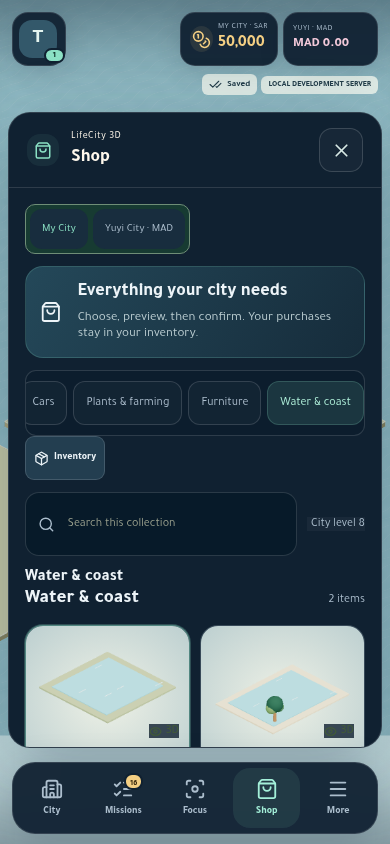
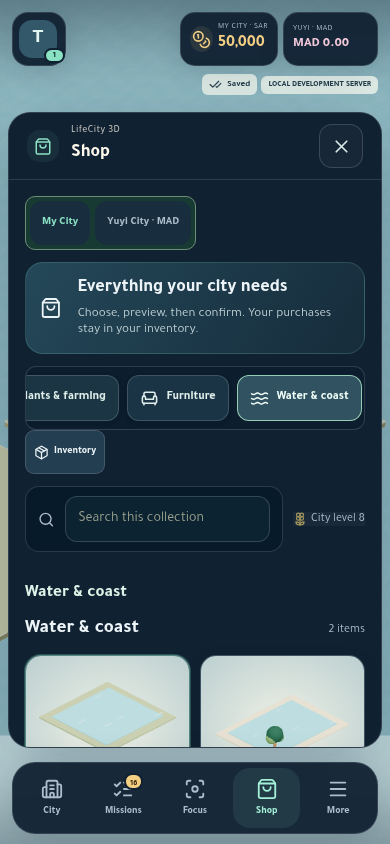
Complete stage 2: shared panel controls and responsive RTL menus

diff --git a/src/components/game-controls.css b/src/components/game-controls.css
@@ -1,0 +1,28 @@
+/* Shared controls for every game panel, drawer, catalog and journal. */
+.modern-game{--control-height:46px;--control-radius:12px;--control-fill:#1b3445;--control-edge:#ffffff29;--control-text:#dfeeea;--control-selected:#8be1c4;--control-ink:#102d32}
+.modern-game .game-panel :is(button,.button,.social-button){min-height:44px;font-family:inherit;font-weight:700;line-height:1.45;touch-action:manipulation;transition:background-color .16s,border-color .16s,box-shadow .16s}
+.modern-game :is(button,a,input,select,textarea):focus-visible{outline:3px solid #e5c77d;outline-offset:3px}
+.modern-game .game-panel :is(.game-tabs,.studio-tabs,.shop-subsections,.finish-surfaces,.timer-targets,.shop-floor-presets,.social-settings-nav){display:flex;align-items:center;gap:8px;overflow-x:auto;flex-wrap:nowrap;scrollbar-width:thin;overscroll-behavior-inline:contain;scroll-padding-inline:8px;scroll-behavior:smooth;padding:8px 2px;max-width:100%;min-width:0}
+.modern-game .game-panel :is(.game-tabs,.studio-tabs,.shop-subsections,.finish-surfaces,.timer-targets,.shop-floor-presets,.social-settings-nav)>:is(button,a){display:inline-flex;align-items:center;justify-content:center;gap:8px;flex-shrink:0;min-height:var(--control-height);padding:10px 15px;border:1px solid var(--control-edge);border-radius:var(--control-radius);background:var(--control-fill);color:var(--control-text);font-size:13px;font-weight:700;text-decoration:none;white-space:nowrap;box-shadow:0 2px 5px #051a2315}
+.modern-game .game-panel :is(.game-tabs,.studio-tabs,.shop-subsections,.finish-surfaces,.timer-targets,.shop-floor-presets,.social-settings-nav)>:is([aria-pressed=true],.active){background:var(--control-selected);color:var(--control-ink);border-color:#c4ffe9;box-shadow:0 3px 10px #8be1c41a}
+@media(hover:hover){.modern-game .game-panel :is(.game-tabs,.studio-tabs,.shop-subsections,.finish-surfaces,.timer-targets,.shop-floor-presets,.social-settings-nav)>:is(button,a):not(:disabled):hover{border-color:#9acfb7;background:#315361;color:#f1fff9}}
+.modern-game .game-panel button:disabled{cursor:not-allowed;opacity:.6}
+.modern-game .game-panel :is(input:not([type=range]):not([type=checkbox]),select,textarea){min-height:var(--control-height);border:1px solid var(--control-edge);border-radius:var(--control-radius);padding:10px 12px;background:#0c2432;color:var(--control-text);font:inherit;max-width:100%;min-width:0}
+.modern-game .game-panel input[type=checkbox]{accent-color:var(--control-selected)}
+.modern-game .game-panel input[type=range]{min-height:44px;accent-color:var(--control-selected)}
+.modern-game .game-close{min-width:44px;min-height:44px;border-radius:var(--control-radius);box-shadow:none}
+.modern-game .game-panel-header{gap:14px;padding-block:14px;align-items:center}
+.modern-game .game-panel-header h2{font-size:19px;line-height:1.5;margin:0}
+.modern-game .game-panel-header small{display:block;font-size:10px;letter-spacing:.04em;margin-bottom:3px;opacity:.8}
+.modern-game .shop-primary-nav{width:100%;margin:0;border-block-end:1px solid var(--control-edge);padding-bottom:14px}
+.modern-game .shop-primary-nav>button>svg{width:19px;height:19px;flex-shrink:0}
+.modern-game .shop-room-choice{display:grid;gap:8px;font-size:13px;font-weight:700;max-width:420px;margin-block:12px}
+.modern-game .shop-legacy-collection{margin-block:20px}.modern-game .shop-legacy-collection>h3{font-size:17px;color:#dff4e9;margin-bottom:14px}
+.modern-game .game-window :is(.catalog-card,.building-card,.shop-world-grid>button,.garden-species>button){border-radius:16px;border:1px solid var(--control-edge);background:#183345;overflow:hidden;box-shadow:0 5px 16px #061c2520}
+.modern-game .game-window :is(.building-card,.shop-world-grid>button,.garden-species>button){padding:12px;gap:10px;text-align:start;color:var(--control-text)}
+.modern-game .game-window :is(.building-card,.shop-world-grid>button,.garden-species>button)>strong{font-size:14px;line-height:1.7}
+.modern-game .game-window :is(.building-card,.shop-world-grid>button,.garden-species>button) .asset-photo{width:100%;height:140px;border-radius:10px;background:#d8e5dc}
+.modern-game .game-window :is(.building-card,.shop-world-grid>button,.garden-species>button):focus-visible{outline-offset:2px}
+.modern-game .game-menu-tool,.modern-game .game-menu-grid>a{border-radius:16px;min-height:82px;padding:14px;border:1px solid var(--control-edge)}
+@media(max-width:600px){.modern-game .game-panel-header{padding-block:11px}.modern-game .game-panel-header h2{font-size:17px}.modern-game .game-panel :is(.game-tabs,.studio-tabs,.shop-subsections,.finish-surfaces,.timer-targets,.shop-floor-presets,.social-settings-nav)>:is(button,a){font-size:12px;padding-inline:12px}.modern-game .game-window :is(.building-card,.shop-world-grid>button,.garden-species>button) .asset-photo{height:116px}.modern-game .shop-browse-bar{gap:10px;flex-wrap:wrap}.modern-game .shop-search{flex:1;min-width:180px}}
+@media(prefers-reduced-motion:reduce){.modern-game .game-panel *{scroll-behavior:auto;transition:none!important}}

diff --git a/src/pages/Shop.tsx b/src/pages/Shop.tsx
@@ -34,6 +34,8 @@ const categories: { id: Category | 'all'; ar: string; en: string; icon: typeof T
   { id: 'furniture', ar: 'أثاث', en: 'Furniture', icon: Armchair },
 ]
 
+const sectionIcons={construction:Building2,roads:Grid2X2,vehicles:Car,plants:Trees,furniture:Armchair,water:Waves};
+
 export default function Shop() {
   const { state, loading, error, mutate, online } = useGame()
   const { t, number } = useLocale()
@@ -80,7 +82,7 @@ export default function Shop() {
   return <div className="page shop-page">
     {state.v6&&<div className="shop-territory" role="group" aria-label={t('مدينة الشراء','Purchase territory')}><button aria-pressed={!yuyi} onClick={()=>{selectRealm('main');setQuote(null)}}>{t('مدينتي','My City')}</button><button aria-pressed={yuyi} onClick={()=>{selectRealm('yuyi');setQuote(null)}}>{t('مدينة ويوي · MAD','Yuyi City · MAD')}</button></div>}
     <div className="shop-hero"><ShoppingBag size={30}/><div><h2>{t('كل ما تحتاجه مدينتك','Everything your city needs')}</h2><p>{t('اختر، عاين، ثم أكّد. مشترياتك محفوظة في المخزون.','Choose, preview, then confirm. Your purchases stay in your inventory.')}</p></div></div>
-    <div className="game-shop-toolbar"><nav className="game-shop-tabs game-tabs shop-primary-nav" aria-label={t('أقسام المتجر','Shop sections')} data-testid="shop-sections">{SHOP_SECTIONS.map(section=><button key={section.id} data-testid={section.id==='plants'?'shop-plants':'shop-'+section.id+'-tab'} data-source={section.id==='roads'?'legacy-roads':section.id==='vehicles'?'upper-cars':'unified'} aria-pressed={shelf===section.id} className={shelf===section.id?'active':''} onClick={()=>{setShelf(section.id);setQuote(null);setNotice('');}}>{t(section.ar,section.en)}</button>)}</nav><Link className="button button-secondary" to="/city?panel=inventory"><Package size={17}/>{t('المخزون','Inventory')}</Link></div>
+    <div className="game-shop-toolbar"><nav className="game-shop-tabs game-tabs shop-primary-nav" aria-label={t('أقسام المتجر','Shop sections')} data-testid="shop-sections">{SHOP_SECTIONS.map(section=>{const Icon=sectionIcons[section.id];return <button key={section.id} data-testid={section.id==='plants'?'shop-plants':'shop-'+section.id+'-tab'} data-source={section.id==='roads'?'legacy-roads':section.id==='vehicles'?'upper-cars':'unified'} aria-pressed={shelf===section.id} className={shelf===section.id?'active':''} onClick={()=>{setShelf(section.id);setQuote(null);setNotice('');}}><Icon aria-hidden="true" size={18}/>{t(section.ar,section.en)}</button>;})}</nav><Link className="button button-secondary" to="/city?panel=inventory"><Package size={17}/>{t('المخزون','Inventory')}</Link></div>
     <div className="shop-browse-bar"><label className="shop-search"><Search size={19}/><input type="search" aria-label={t('البحث في المتجر','Search the shop')} placeholder={t('ابحث داخل القسم','Search this collection')} value={query} onChange={event=>setQuery(event.target.value)}/></label><span className="shop-level"><Flower2 size={17}/>{t('مستوى المدينة','City level')} {number(level)}</span></div>
     {shelf==='construction'&&<div className="shop-subsections" role="group" aria-label={t('خيارات المباني','Building options')}><button aria-pressed={buildMode==='catalog'} onClick={()=>setBuildMode('catalog')}>{t('تصفح المباني','Browse buildings')}</button><button data-testid="shop-projects" disabled={yuyi} aria-pressed={buildMode==='savings'} onClick={()=>setBuildMode('savings')}>{t('ادّخر لمبناك','Save for a building')}</button></div>}
     {shelf==='furniture'&&<label className="shop-room-choice">{t('أين ستضع الأثاث؟','Where will you furnish?')}<select aria-label={t('مكان تأثيث الغرفة','Furnishing destination')} value={furnitureRoom} onChange={e=>setFurnitureRoom(e.target.value as 'building'|'home')}><option value="building">{t('طوابق المباني المشيّدة','Constructed building floors')}</option><option value="home">{t('غرف المنازل الجاهزة','Ready-made home rooms')}</option></select></label>}

diff --git a/tests/e2e/comprehensive.spec.ts b/tests/e2e/comprehensive.spec.ts
@@ -12,3 +12,9 @@ test('one shop taxonomy keeps lower roads and lighting, upper cars, every room s
  await nav.getByRole('button',{name:'Plants & farming',exact:true}).click();await expect(page.getByTestId('purchase-tree')).toHaveCount(1);await expect(page.getByTestId('species-date_palm')).toHaveCount(1);await nav.getByRole('button',{name:'Water & coast',exact:true}).click();await expect(page.getByTestId('purchase-lake')).toHaveCount(1);await expect(page.getByTestId('purchase-beach')).toHaveCount(1);
  const after=await(await page.request.get('/api/state')).json();for(const key of ['wallet','inventory','placements'])expect(after[key]).toEqual(before[key]);expect(after.world_systems.entities).toEqual(before.world_systems.entities);expect(after.v6.yuyi_wallet).toEqual(before.v6.yuyi_wallet);expect(await page.evaluate(()=>document.documentElement.scrollWidth<=innerWidth)).toBe(true);await mkdir('docs/evidence/comprehensive-upgrade',{recursive:true});await page.screenshot({path:'docs/evidence/comprehensive-upgrade/stage1-shop-390.png'});
 });
+
+test('shared menu controls keep a consistent size, keyboard focus and RTL layout across phone and desktop',async({page})=>{
+ await page.goto('/login');await page.getByRole('button',{name:'English',exact:true}).click();await page.getByTestId('auth-email').fill('visual-touch-comprehensive@example.test');await page.getByTestId('auth-password').fill(E2E_PASSWORD);await page.getByTestId('auth-submit').click();await expect(page).toHaveURL(/\/city/);await page.locator('.game-dock a[href="/shop"]').click();
+ await expect(page.getByTestId('shop-sections').getByRole('button')).toHaveCount(6);for(const width of [320,390,768,1440]){await page.setViewportSize({width,height:900});const controls=await page.getByTestId('shop-sections').getByRole('button').evaluateAll(nodes=>nodes.map(n=>({height:n.getBoundingClientRect().height,font:parseFloat(getComputedStyle(n).fontSize)})));expect(controls).toHaveLength(6);expect(controls.every(c=>c.height>=44&&c.font>=12)).toBe(true);expect(new Set(controls.map(c=>c.height)).size).toBe(1);expect(await page.evaluate(()=>document.documentElement.scrollWidth<=innerWidth)).toBe(true);}
+ await page.getByTestId('shop-roads-tab').focus();await expect(page.getByTestId('shop-roads-tab')).toBeFocused();await page.keyboard.press('Enter');await expect(page.getByTestId('shop-roads-tab')).toHaveAttribute('aria-pressed','true');await page.getByRole('button',{name:'Game menu',exact:true}).last().click();await page.getByRole('button',{name:'العربية',exact:true}).click();await page.getByRole('dialog').getByRole('button',{name:'إغلاق',exact:true}).click();await page.setViewportSize({width:390,height:844});await expect(page.locator('html')).toHaveAttribute('dir','rtl');await expect(page.getByTestId('shop-sections').getByRole('button')).toHaveCount(6);expect(await page.evaluate(()=>document.documentElement.scrollWidth<=innerWidth)).toBe(true);await mkdir('docs/evidence/comprehensive-upgrade',{recursive:true});await page.screenshot({path:'docs/evidence/comprehensive-upgrade/stage2-shop-rtl-390.png'});
+});

diff --git a/src/components/AppLayout.tsx b/src/components/AppLayout.tsx
@@ -14,6 +14,7 @@ import '../game-shell.css';
 import '../stylized-game.css';
 import '../game-panels.css';
 import '../modern-game.css';
+import './game-controls.css';
 import {useTouchTools} from '../world/useTouchTools';
 import {useWorldUI} from '../world/useWorldUI';
 

diff --git a/docs/evidence/comprehensive-upgrade/progress.md b/docs/evidence/comprehensive-upgrade/progress.md
@@ -4,8 +4,8 @@ Source request: [owner specification](../../specs/LifeCity-Comprehensive-Upgrade
 Baseline: published43771049, world-command v5,141 tests/39 browser cases.
 
 1. Unified shop taxonomy — **complete**. Lint/types and rendered shop audit passed; six primary categories, lighting/roads and cars preserved, furniture destination coverage, no wallet/entity/inventory changes. Evidence: stage1-shop-390.png and tests/e2e/comprehensive.spec.ts.
-2. Shared menu/button design — **in progress**.
-3. Distinct base architectural geometry and variants for the full catalog — pending.
+2. Shared menu/button design — **complete**. Lint/types and rendered320/390/768/1440 keyboard/RTL control checks passed. Evidence: stage2-shop-rtl-390.png.
+3. Distinct base architectural geometry and variants for the full catalog — **in progress**.
 4. Per-category unlocks through40, trusted guards and owned-asset grandfathering — pending.
 5. Measured low/medium/high activity economy and future-price rebalance — pending.
 6. MM:SS focus timer, preserved timing/rewards — pending.
